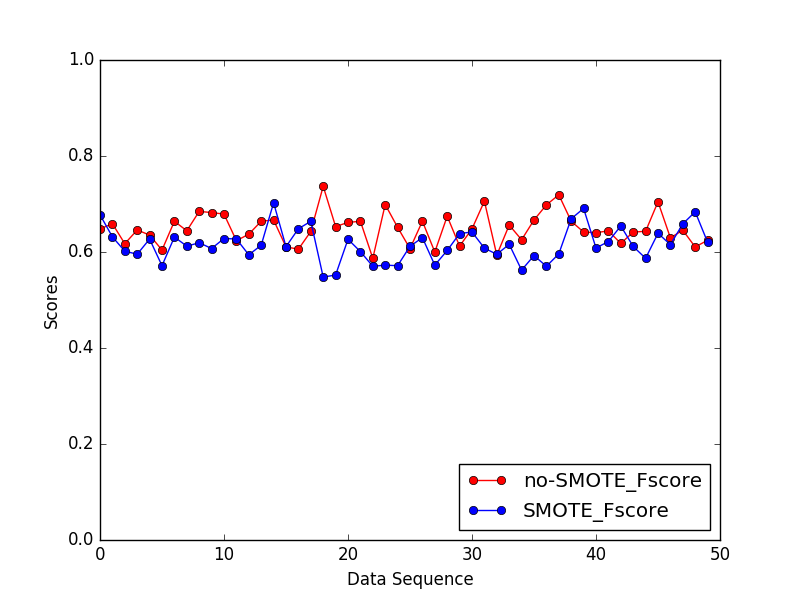
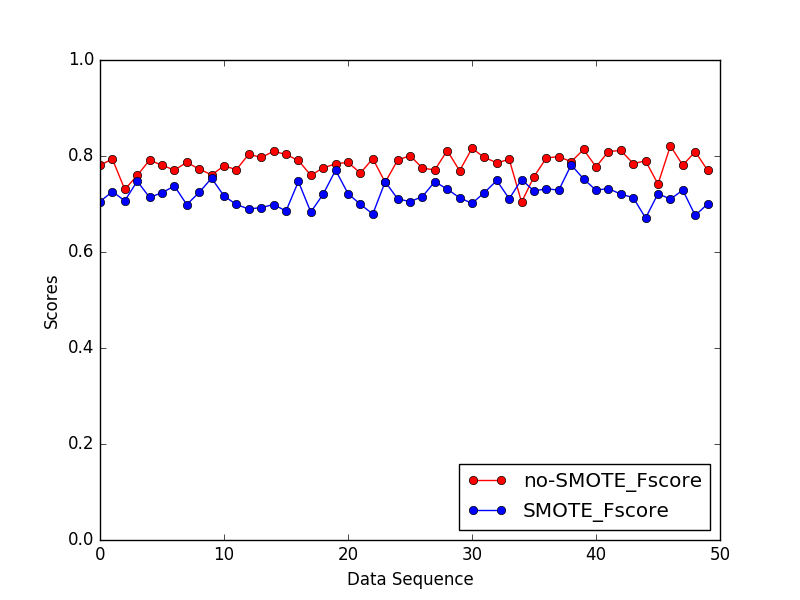
update files and code

Changed region(s): [[0.125, 0.24, 0.9062, 0.45], [0.375, 0.45, 0.4375, 0.48]]

diff --git a/code/EmailSignatureExtraction_v2.py b/code/EmailSignatureExtraction_v2.py
@@ -30,20 +30,14 @@ def main():
             random.shuffle(data_pos)
             random.shuffle(data_neg)
             data_pos_vec, data_neg_vec = feature_extraction_Doc2Vec(data_pos, data_neg) # convert to Word Vectors
-            size_pos, size_neg = len(data_pos_vec), len(data_neg_vec)
-            if test_mode == 1: # apply SMOTE
-                if (size_pos > size_neg*(1+SIZE_DIFF_TOL)): # check size and apply SMOTE
-                    data_neg_vec = SMOTE(data_neg_vec, size_pos, num_neighbors=3)
-                elif (size_neg > size_pos*(1+SIZE_DIFF_TOL)):
-                    data_pos_vec = SMOTE(data_pos_vec, size_neg, num_neighbors=3)
             models = {"SVC": sklearn.svm.SVC(), \
                       "Logit": sklearn.linear_model.LogisticRegression(), \
                       "DT": sklearn.tree.DecisionTreeClassifier(), \
                       "NBayes": sklearn.naive_bayes.GaussianNB(), \
                       "NNeighbors": sklearn.neighbors.nearest_centroid.NearestCentroid()}
-            model_chosen = "DT"
+            model_chosen = "NNeighbors"
             accuracys, precisions, recalls, Fscores = cross_validationS(\
-                data_pos_vec, data_neg_vec, models[model_chosen], num_cross=NUM_OF_CROSSFOLD) # cross validation
+                data_pos_vec, data_neg_vec, models[model_chosen], num_cross=NUM_OF_CROSSFOLD, smote_flag=test_mode) # cross validation
             sFscores.extend(Fscores)
             sRecalls.extend(recalls)
             sPrecisions.extend(precisions)
@@ -158,7 +152,7 @@ def feature_extraction_Doc2Vec(data_pos, data_neg): # use the word2vec under the
         data_neg_vec.append(doc_vec.tolist())
     return data_pos_vec, data_neg_vec
 
-def cross_validation(dataset_pos, dataset_neg, model, num_cross):
+def cross_validation(dataset_pos, dataset_neg, model, num_cross, smote_flag=False):
     target = [1] * len(dataset_pos) + [0] * len(dataset_neg)
     data_set = dataset_pos + dataset_neg
     accuracys = sklearn.cross_validation.cross_val_score(model, data_set, target, scoring="accuracy", cv=num_cross)
@@ -167,7 +161,7 @@ def cross_validation(dataset_pos, dataset_neg, model, num_cross):
     Fscores = sklearn.cross_validation.cross_val_score(model, data_set, target, scoring="f1_weighted", cv=num_cross)
     return accuracys.tolist(), precisions.tolist(), recalls.tolist(), Fscores.tolist()
 
-def cross_validationS(dataset_pos, dataset_neg, model, num_cross):
+def cross_validationS(dataset_pos, dataset_neg, model, num_cross, smote_flag=False):
     data_size = len(dataset_pos) + len(dataset_neg)
     unit_size = int(data_size*1.0 / num_cross)
     dataset_pos_vec = [entry+["pos"] for entry in dataset_pos]
@@ -205,6 +199,19 @@ def cross_validationS(dataset_pos, dataset_neg, model, num_cross):
             else:
                 train_dataset.extend(crossfold_dataset[i])
                 train_target.extend(crossfold_target[i])
+        if smote_flag == 1:
+            train_pos_dataset = [entry for index, entry in enumerate(train_dataset) if train_target[index]=="pos"]
+            train_neg_dataset = [entry for index, entry in enumerate(train_dataset) if train_target[index]=="neg"]
+            size_pos = len(train_pos_dataset)
+            size_neg = len(train_neg_dataset)
+            if (size_pos > size_neg*(1+SIZE_DIFF_TOL)): # check size and apply SMOTE
+                train_neg_dataset = SMOTE(train_neg_dataset, size_pos, num_neighbors=3)
+            elif (size_neg > size_pos*(1+SIZE_DIFF_TOL)):
+                train_pos_dataset = SMOTE(train_pos_dataset, size_neg, num_neighbors=3)
+            size_pos = len(train_pos_dataset)
+            size_neg = len(train_neg_dataset)
+            train_dataset = train_pos_dataset + train_neg_dataset
+            train_target = size_pos*["pos"] + size_neg*["neg"]
         model_fit = build_model(train_dataset, train_target, model) # training
         valid_predicted = model_fit.predict(valid_dataset).tolist()
         accuracy, precision, recall, Fscore = evaluate_model(valid_target, valid_predicted) # validation
